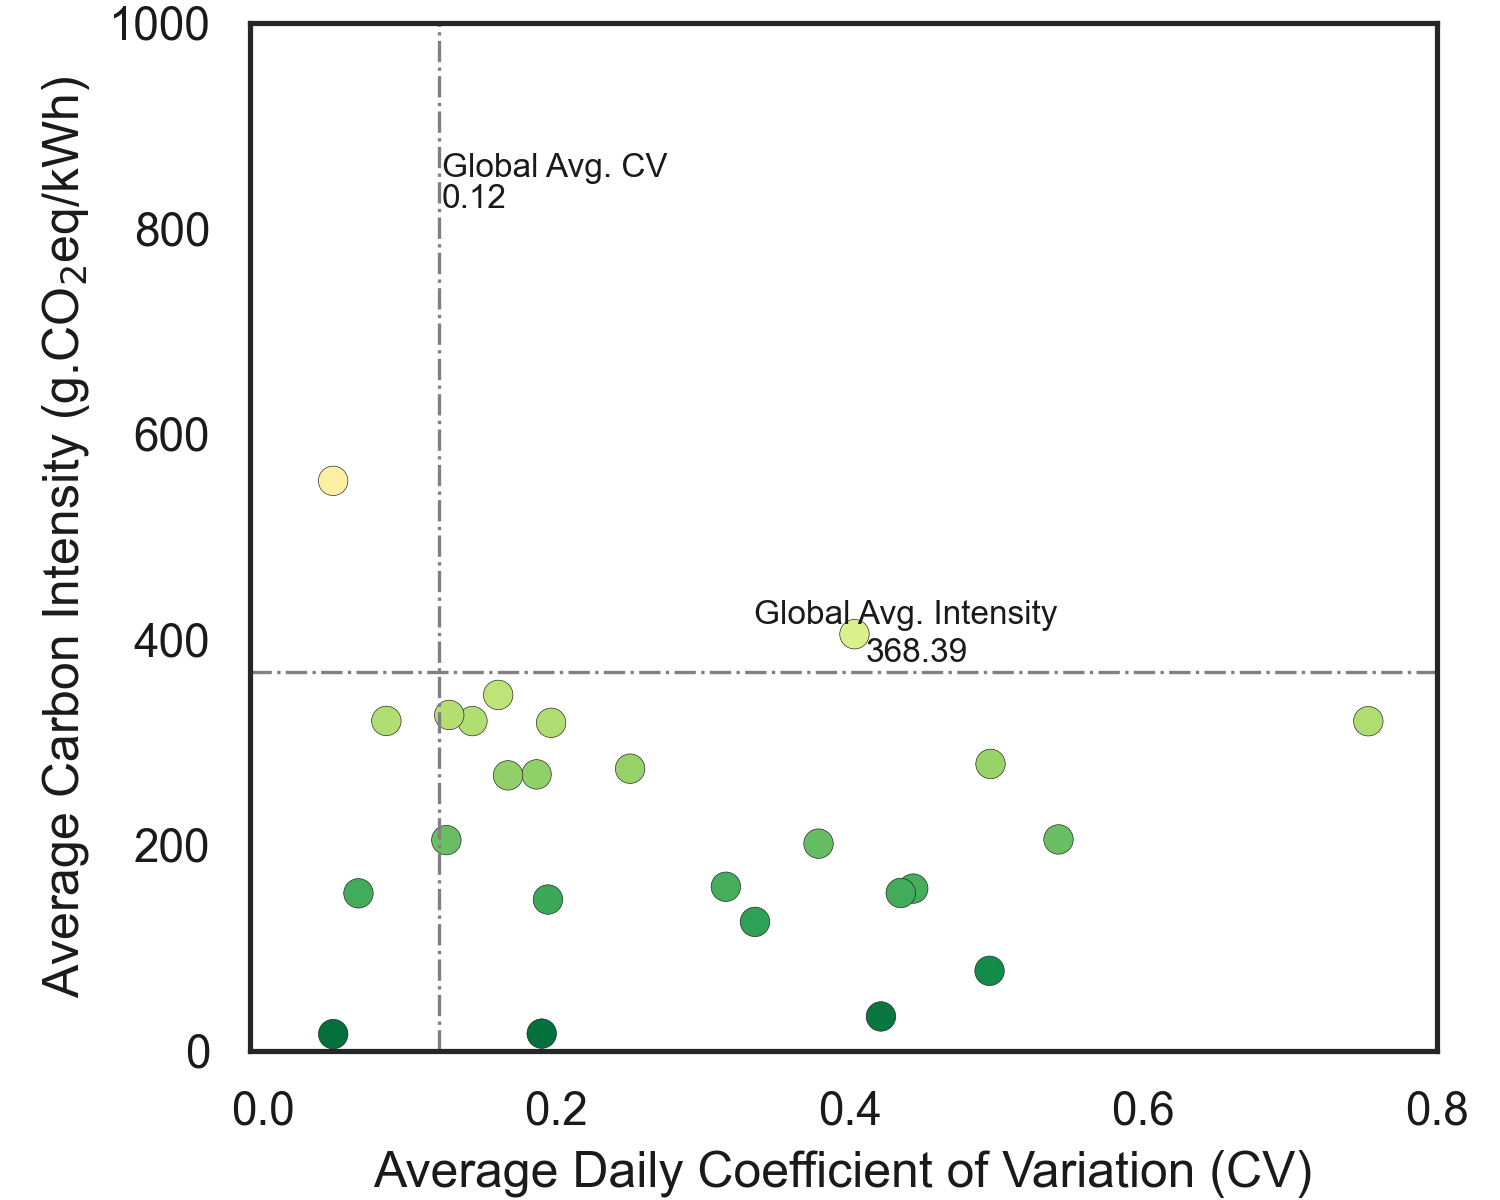
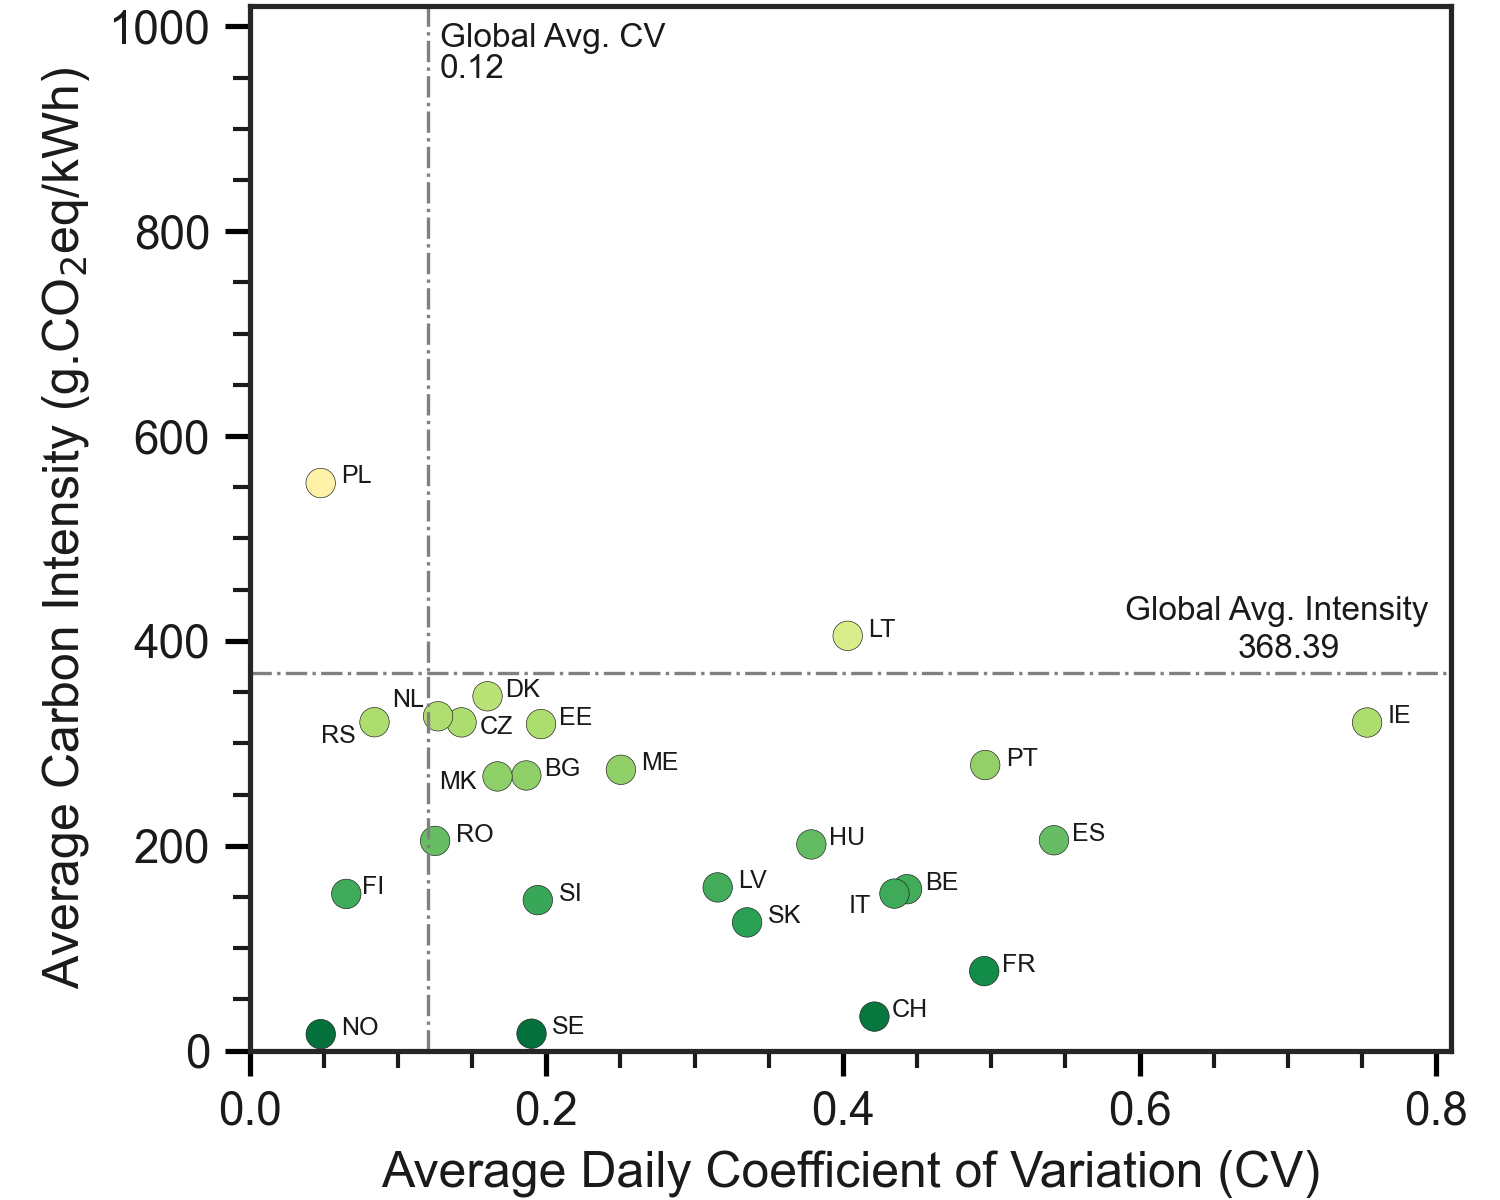
Label mean and cv plot

diff --git a/Mean and CV Plotting/plot_mean_and_cv.py b/Mean and CV Plotting/plot_mean_and_cv.py
@@ -1,23 +1,25 @@
 import pandas as pd 
 import matplotlib.pyplot as plt
 import seaborn as sns
-import os 
-import sys
+import numpy as np
+from matplotlib.ticker import (MultipleLocator, AutoMinorLocator)
+# import os 
+# import sys
 # import graph_templates
 # import regions
 
-# def annon(zonecode,x,y,ax,rot=0, flag=False,zorder=99): 
-#     name = regions.get_other_tag(zonecode)
-#     if flag:
-#         name = regions.get_flag_tag(zonecode)
-#     ax.annotate(name, xy=(x,y),xycoords='data',fontsize=tagfont, font=boldfont, rotation=rot,zorder=zorder)
+def annon(zonecode,x,y,ax,rot=0, flag=False,zorder=99): 
+    # name = regions.get_other_tag(zonecode)
+    # if flag:
+    #     name = regions.get_flag_tag(zonecode)
+    ax.annotate(zonecode, xy=(x,y),xycoords='data',fontsize=tagfont, rotation=rot,zorder=zorder)
 
 year = 2023
 file_path = f'mean_and_cv_{year}.csv'
 savetodir = 'plot_output'
 
 
-# tagfont = 6
+tagfont = 6
 # boldfont = graph_templates.get_font(2)
 
 stat_df = pd.read_csv(file_path, index_col='zone_code').rename_axis(None)
@@ -38,10 +40,10 @@ plt.rcParams['ytick.color'] = 'k'
 
 
 fig, ax = plt.subplots(figsize=(5,4))
-xmin = -0.009
-xmax = 0.8
+xmin = 0
+xmax = 0.81
 ymin = 0
-ymax = 1000
+ymax = 1020
 stat_df.plot.scatter(x=x, 
                      y=y,c=y,cmap="RdYlGn_r",
                      ax=ax,
@@ -65,16 +67,52 @@ intensity_stats = f"Global Avg. Intensity"
 cv_stats = f"Global Avg. CV"
 
 
-ax.annotate(intensity_stats , xy=(0.335,415),xycoords='data', size=8)
-ax.annotate(global_avg , xy=(0.411,378),xycoords='data', size=8)
-ax.annotate(cv_stats, xy=(0.122,850),xycoords='data', size=8, rotation=0)
-ax.annotate(global_cv, xy=(0.122,820),xycoords='data', size=8, rotation=0)
+ax.annotate(intensity_stats , xy=(0.590,420),xycoords='data', size=8)
+ax.annotate(global_avg , xy=(0.666,383),xycoords='data', size=8)
+ax.annotate(cv_stats, xy=(0.128,980),xycoords='data', size=8, rotation=0)
+ax.annotate(global_cv, xy=(0.128,950),xycoords='data', size=8, rotation=0)
 
-plt.tick_params(left=False, bottom=False)
+plt.tick_params(direction='out', color='#000000')
+# plt.yticks(np.arange(0,1.3,0.5), fontsize=10)
+# plt.xticks( rotation=90, fontsize=9)
 plt.xlabel(x)
 plt.ylabel(y)
 plt.ylim([ymin,ymax])
 plt.xlim([xmin,xmax])
+# 0.001 6
+
+ax.xaxis.set_minor_locator(MultipleLocator(0.05))
+ax.yaxis.set_minor_locator(MultipleLocator(50))
+
+ax.annotate("BE" , xy=(0.4552, 157), size = 6)
+ax.annotate("BG" , xy=(0.1985, 268), size = 6)
+ax.annotate("CH" , xy=(0.4332, 33), size = 6)
+ax.annotate("CZ" , xy=(0.1548, 309), size = 6)
+ax.annotate("DK" , xy=(0.1723, 345), size = 6)
+ax.annotate("EE" , xy=(0.2083, 318), size = 6)
+ax.annotate("ES" , xy=(0.5542, 205), size = 6)
+ax.annotate("FI" , xy=(0.0760, 153), size = 6)
+ax.annotate("FR" , xy=(0.5072, 77), size = 6)
+ax.annotate("HU" , xy=(0.3906, 201), size = 6)
+
+ax.annotate("IE" , xy=(0.7674, 320), size = 6)
+ax.annotate("IT" , xy=(0.4037, 134), size = 6)
+ax.annotate("LT" , xy=(0.4171, 404), size = 6)
+ax.annotate("LV" , xy=(0.3295, 159), size = 6)
+ax.annotate("ME" , xy=(0.2642, 274), size = 6)
+ax.annotate("MK" , xy=(0.1280, 255), size = 6)
+ax.annotate("NL" , xy=(0.0959, 335), size = 6)
+ax.annotate("NO" , xy=(0.0618, 15), size = 6)
+ax.annotate("PL" , xy=(0.0618, 554), size = 6)
+ax.annotate("PT" , xy=(0.5099, 278), size = 6)
+
+ax.annotate("RO" , xy=(0.1390, 204), size = 6)
+ax.annotate("RS" , xy=(0.0481, 300), size = 6)
+ax.annotate("SE" , xy=(0.2040, 16), size = 6)
+ax.annotate("SI" , xy=(0.2082, 146), size = 6)
+ax.annotate("SK" , xy=(0.3493, 125), size = 6)
+
+
 
 # annon("SE-SE1",0.07,27,ax=ax,flag=True)
 # annon("CA-QC",0.019,33,ax=ax,rot=45,flag=True)
